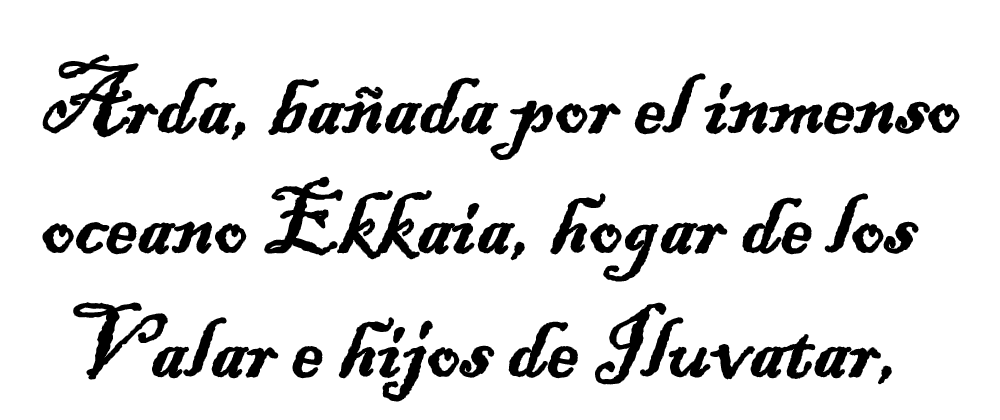
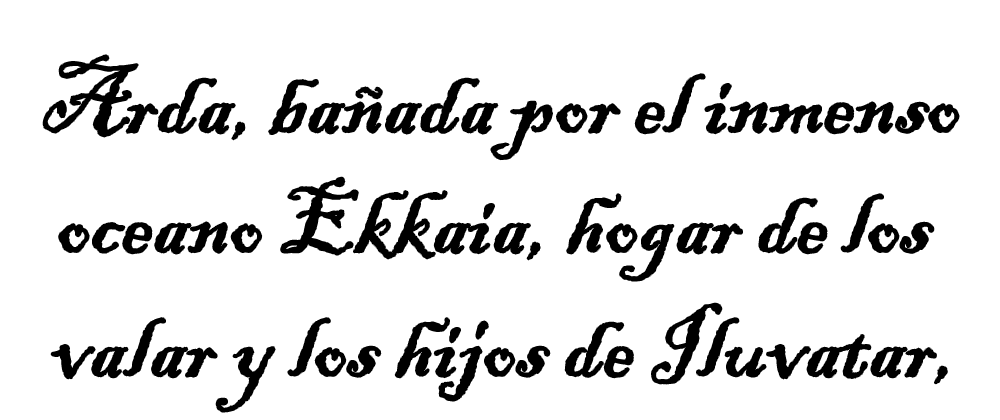
Avance en cinematicas

Changed region(s): [[0.031, 0.7119, 0.961, 0.9905], [0.031, 0.4024, 0.93, 0.681]]

diff --git a/Dagor_Dagorath/Script/Cinematic.js b/Dagor_Dagorath/Script/Cinematic.js
@@ -10,6 +10,8 @@ var letras;
 var olas;
 var texto1;
 var texto1_2;
+var texto2;
+var texto3;
 
 var alrededores;
 var morgoth;
@@ -45,11 +47,16 @@ DagorDagorath.Cinematic.prototype = {
 		texto1_2.width = 111.7;
 		texto1_2.height = 33;
 
+		texto2 = this.game.add.sprite(330,450, 'Texto_2');
+		texto2.width = 280;
+		texto2.height = 155;
+
 
 		tierra.alpha = 1;
 		olas.alpha = 1;
 		texto1.alpha = 0;
 		texto1_2.alpha = 0;
+		texto2.alpha = 0;
 		////////////////////////////////////////////////////////////////////////////////////////////////////
 
 
@@ -66,6 +73,11 @@ DagorDagorath.Cinematic.prototype = {
 	 	nazguls = this.game.add.sprite(150,-120,'Ilustracion2_Nazguls');
 	 	nazguls.width = 250;
 		nazguls.height = 102;
+
+		texto3 = this.game.add.sprite(375,385, 'Texto_3');
+		texto3.width = 385;
+		texto3.height = 126;
+		texto3.alpha = 0;
 		////////////////////////////////////////////////////////////////////////////////////////////////////
 		  
 
@@ -110,13 +122,28 @@ DagorDagorath.Cinematic.prototype = {
 	{
 		tween3 = this.game.add.tween(texto1).to( { alpha: 0 }, 2000,  Phaser.Easing.Quartic.Out, true);
 		tween3.start();
-		tween3.onComplete.add(this.desapareceTexto2, this);
+		tween3.onComplete.add(this.desapareceTexto1_2, this);
 	},
 
-	desapareceTexto2: function()
+	desapareceTexto1_2: function()
 	{
 		tween3 = this.game.add.tween(texto1_2).to( { alpha: 0 }, 2000,  Phaser.Easing.Quartic.In, true);
 		tween3.start();
+		tween3.onComplete.add(this.apareceTexto2, this);
+	},
+
+	apareceTexto2: function()
+	{
+		tween3 = this.game.add.tween(texto2).to( { alpha: 1}, 5000,  Phaser.Easing.Quartic.Out, true);
+		tween3.start();
+		tween3.onComplete.add(this.desapareceTexto2, this);
+	},
+
+	desapareceTexto2: function() 
+	{
+		tween3 = this.game.add.tween(texto2).to( { alpha: 0 }, 5000,  Phaser.Easing.Quadratic.In, true);
+		tween3.start();
+		//tween3.onComplete.add(this.desapareceTexto1_2, this);
 	},
 
 	actionOnClick: function () 
@@ -142,6 +169,8 @@ DagorDagorath.Cinematic.prototype = {
 	{
 		tween = this.game.add.tween(morgoth).to({x: 0}, 5000, Phaser.Easing.Quadratic.Out, true);   
 		tween.start();
+		tween3 = this.game.add.tween(texto3).to( { alpha: 1}, 5000,  Phaser.Easing.Quartic.In, true);
+		tween3.start();
 
 		tween.onComplete.add(this.entradaNazguls, this);
 

diff --git a/Dagor_Dagorath/Script/Preload.js b/Dagor_Dagorath/Script/Preload.js
@@ -43,6 +43,8 @@ DagorDagorath.Preload.prototype = {
 
     this.load.image('Texto_1', 'images/Texto1.png');
     this.load.image('Texto_1_2', 'images/Texto1_2.png');
+    this.load.image('Texto_2', 'images/Texto2.png');
+    this.load.image('Texto_3', 'images/Texto3.png');
 
   },
   create: function() {
